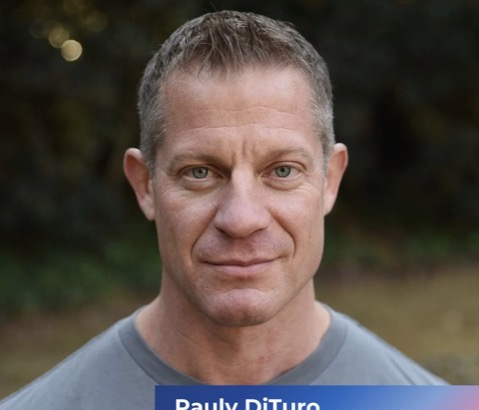
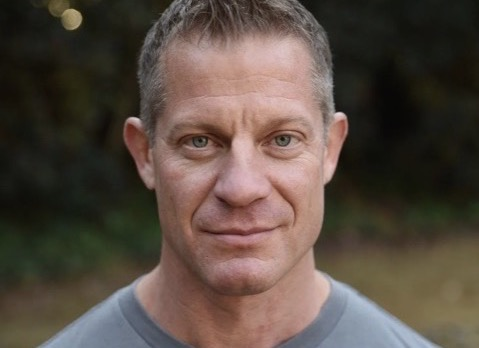
Profiles as clean plates + de-AI'd offer/how-it-works copy
Profiles: no more text-over-gradient tiles or blue outlines — every held seat
is a hairline-ringed rounded photo with the name in plain text below, matching
the provenance photos. Empty seats keep dashed scaffolding. Paul DiTuro:
baked-in name banner cropped off, link removed.

Copy (panel-judged): NETWORK 'This is where they meet.' answers the litany's
'They haven't met yet.'; HOW IT WORKS rows rewritten as connected human
sentences.

diff --git a/index.html b/index.html
@@ -130,27 +130,11 @@
   .rows .v{max-width:62ch}
   .rows .v b{font-weight:600}
 
-  .strip{display:grid;grid-template-columns:repeat(3,1fr);gap:16px}
-  .polaroid{
-    border:1px solid var(--line);background:#fff;padding:10px 10px 12px;
-    border-radius:6px;
-    transform:rotate(var(--tilt,0deg));
-    box-shadow:0 1px 2px rgba(22,24,29,.06),0 8px 20px rgba(22,24,29,.08);
-    transition:transform .3s ease,box-shadow .3s ease;
-  }
-  .strip .polaroid:nth-child(1){--tilt:-1deg}
-  .strip .polaroid:nth-child(2){--tilt:.7deg}
-  .strip .polaroid:nth-child(3){--tilt:-.5deg}
-  @media(hover:hover){
-    .strip .polaroid:hover{
-      transform:rotate(0deg) translateY(-4px);
-      box-shadow:0 2px 4px rgba(22,24,29,.07),0 16px 36px rgba(22,24,29,.11);
-    }
-  }
-  .polaroid img{display:block;width:100%;aspect-ratio:4/3;object-fit:cover;border-radius:2px}
+  .strip{display:grid;grid-template-columns:repeat(3,1fr);gap:18px}
+  .polaroid img{display:block;width:100%;aspect-ratio:4/3;object-fit:cover;border-radius:8px;border:1px solid var(--line)}
   .polaroid img,.cell .face,.cell .bio img{filter:saturate(.92)}
   .strip .polaroid:first-child img{object-position:88% 50%}
-  .polaroid figcaption{font-size:11.5px;color:var(--gray);margin-top:8px;line-height:1.45;letter-spacing:.03em}
+  .polaroid figcaption{font-size:11.5px;color:var(--gray);margin-top:9px;line-height:1.45;letter-spacing:.03em}
 
   .perm{font-family:var(--disp);font-weight:700;font-size:clamp(21px,3.2vw,28px);letter-spacing:-.01em;line-height:1.35;margin-top:30px;max-width:46ch}
 
@@ -161,35 +145,30 @@
   .roster{display:grid;grid-template-columns:repeat(5,1fr);gap:10px}
   .cell{
     border:1px dashed var(--line);
-    border-radius:6px;
+    border-radius:8px;
     min-height:82px;padding:10px 12px;
     display:flex;flex-direction:column;justify-content:space-between;
     background:rgba(251,251,247,.5);
     position:relative;
   }
   .cell .idx{font-family:var(--disp);font-weight:700;color:var(--blue);font-size:14px}
+  .cell .tag{display:flex;align-items:baseline;gap:8px}
   .cell .who{font-size:11.5px;color:var(--gray)}
   /* No transform/translate on .cell.held, ever — the .bio popover anchors to it and jitters. */
-  .cell.held{border-style:solid;border-color:var(--blue);min-height:118px;box-shadow:0 1px 2px rgba(22,24,29,.06),0 6px 16px rgba(22,24,29,.08)}
-  .cell .face{position:absolute;inset:0;width:100%;height:100%;object-fit:cover;object-position:center 25%;border-radius:5px}
-  .cell.held::after{content:"";position:absolute;inset:0;background:linear-gradient(rgba(22,24,29,.32),rgba(22,24,29,0) 38%,rgba(22,24,29,0) 52%,rgba(22,24,29,.6));pointer-events:none;border-radius:5px}
-  .cell.held .idx,.cell.held .who{position:relative;z-index:2}
-  .cell.held .idx{color:var(--paper)}
-  .cell.held .who{color:var(--paper)}
-  .cell.held .who a{color:var(--paper);border-bottom-color:var(--paper)}
-  .cell.held .who a:hover{background:var(--paper);color:var(--ink)}
+  .cell.held{border:none;padding:0;gap:7px;justify-content:flex-start;min-height:0;background:transparent}
+  .cell .face{display:block;width:100%;aspect-ratio:1/1;object-fit:cover;object-position:center 25%;border-radius:8px;border:1px solid var(--line)}
   .cell .bio{
     position:absolute;left:-1px;top:-1px;z-index:20;
     width:230px;background:#fff;border:1px solid var(--blue);
-    border-radius:6px;
-    box-shadow:0 2px 6px rgba(22,24,29,.10),0 18px 44px -12px rgba(22,24,29,.28);
+    border-radius:8px;
+    box-shadow:0 2px 8px rgba(22,24,29,.08),0 16px 40px -12px rgba(22,24,29,.18);
     padding:8px 8px 10px;font-size:11.5px;line-height:1.5;color:var(--ink);
     visibility:hidden;opacity:0;transform:scale(.96);transform-origin:top left;
     transition:opacity .15s ease,transform .15s ease,visibility .15s;
     pointer-events:none;
   }
   .cell:hover .bio,.cell:focus-within .bio{visibility:visible;opacity:1;transform:scale(1);pointer-events:auto}
-  .cell .bio img{display:block;width:100%;height:150px;object-fit:cover;object-position:center 25%;margin-bottom:8px;border-radius:2px}
+  .cell .bio img{display:block;width:100%;height:150px;object-fit:cover;object-position:center 25%;margin-bottom:8px;border-radius:4px}
   .cell .bio b{font-weight:600}
   .cell .who .mark{height:11px;width:auto;display:inline-block;vertical-align:middle;margin-left:6px;background:var(--paper);padding:1px 3px;box-sizing:content-box;border-radius:2px}
   .adv .cell .who{margin-top:auto}
@@ -203,10 +182,7 @@
     .rows .row{grid-template-columns:1fr;gap:4px}
     .roster{grid-template-columns:repeat(4,1fr)}
     table.offer td:first-child{width:120px}
-    .strip{grid-template-columns:1fr;gap:24px}
-    .strip .polaroid:nth-child(1){--tilt:-.7deg}
-    .strip .polaroid:nth-child(2){--tilt:.5deg}
-    .strip .polaroid:nth-child(3){--tilt:-.4deg}
+    .strip{grid-template-columns:1fr;gap:20px}
   }
   @media(max-width:440px){
     .roster{grid-template-columns:repeat(2,1fr)}
@@ -262,7 +238,7 @@
       </tr>
       <tr>
         <td>THE NETWORK</td>
-        <td><b>A community, for life.</b><br>Every fellow from every cohort, one community &mdash; incredible people like you, working on incredible things.</td>
+        <td><b>This is where they meet.</b><br>Every fellow from every cohort joins one permanent community. Whatever you're driving toward, now you're surrounded by people who understand it and help.</td>
       </tr>
     </table>
   </div>
@@ -272,11 +248,11 @@
   <div class="wrap">
     <p class="label">[ HOW IT WORKS ]</p>
     <div class="rows">
-      <div class="row"><div class="k">NO STRINGS</div><div class="v">We take nothing and expect nothing.</div></div>
-      <div class="row"><div class="k">WHY JOIN</div><div class="v">The money and the community &mdash; come for one or both.</div></div>
-      <div class="row"><div class="k">WHO CAN APPLY</div><div class="v">Anyone, whether operators, engineers, scientists, or anything else. Applications are always open, and we read every one.</div></div>
-      <div class="row"><div class="k">YOUR APPLICATION</div><div class="v">It never expires. When there's something new, send an update and we'll read it against your last one.</div></div>
-      <div class="row"><div class="k">PRIVATE</div><div class="v">Being announced or listed is optional. Quiet is fine.</div></div>
+      <div class="row"><div class="k">NO STRINGS</div><div class="v">We take nothing and expect nothing. There's no equity and no reporting, and you can spend the money on anything.</div></div>
+      <div class="row"><div class="k">WHY JOIN</div><div class="v">You can come for the money, the community, or both. All three are fine with us.</div></div>
+      <div class="row"><div class="k">WHO CAN APPLY</div><div class="v">Anyone can, whether you're an operator, an engineer, a scientist, or something else entirely. Applications are always open, and we read every one.</div></div>
+      <div class="row"><div class="k">YOUR APPLICATION</div><div class="v">It never expires. When something new happens, write to us again, and we'll read it against your last one.</div></div>
+      <div class="row"><div class="k">PRIVATE</div><div class="v">Being announced or listed is up to you. If you'd rather stay quiet, that's fine too.</div></div>
     </div>
   </div>
 </section>
@@ -288,7 +264,7 @@
     <p class="roster-note">Fellows are named on a rolling basis. Every cohort joins one community. Being listed is optional &mdash; some fellows will never appear here.</p>
     <div class="cohort"><span class="cy">2026</span><span class="ct">FOUNDING COHORT</span></div>
     <div class="roster">
-      <div class="cell held"><img class="face" src="images/ayush-noori.jpg" alt=""><span class="idx">v&#8321;</span><span class="who"><a href="https://www.ayushnoori.com/" target="_blank" rel="noopener">Ayush Noori</a></span>
+      <div class="cell held"><img class="face" src="images/ayush-noori.jpg" alt=""><span class="tag"><span class="idx">v&#8321;</span><span class="who"><a href="https://www.ayushnoori.com/" target="_blank" rel="noopener">Ayush Noori</a></span></span>
         <span class="bio"><img src="images/ayush-noori.jpg" alt="Ayush Noori"><a href="https://www.ayushnoori.com/" target="_blank" rel="noopener"><b>Ayush Noori</b></a><br>AI for neuroscience and medicine. Rhodes Scholar; DPhil at Oxford.</span></div>
       <div class="cell"><span class="idx">v&#8322;</span><span class="who">&mdash;</span></div>
       <div class="cell"><span class="idx">v&#8323;</span><span class="who">&mdash;</span></div>
@@ -322,8 +298,8 @@
         <span class="bio"><img src="images/xuanhe-zhao.jpg" alt="Xuanhe Zhao"><a href="https://meche.mit.edu/people/faculty/ZHAOX@MIT.EDU" target="_blank" rel="noopener"><b>Xuanhe Zhao</b></a><br>MIT professor of mechanical engineering. Makes hydrogels tougher than cartilage and tape that seals wet organs in seconds.</span></div>
       <div class="cell held"><img class="face" src="images/david-cahn.jpg" alt=""><span class="who"><a href="https://www.sequoiacap.com/people/david-cahn/" target="_blank" rel="noopener">David Cahn</a><img class="mark" src="images/sequoia-mark.svg" alt="Sequoia"></span>
         <span class="bio"><img src="images/david-cahn.jpg" alt="David Cahn"><a href="https://www.sequoiacap.com/people/david-cahn/" target="_blank" rel="noopener"><b>David Cahn</b></a><br>Ran venture at Coatue. Joined Sequoia as a partner at 27 and wrote "AI's $600B Question."</span></div>
-      <div class="cell held"><img class="face" src="images/paul-dituro.jpg" alt=""><span class="who"><a href="https://fpvventures.com/pauly-dituro/" target="_blank" rel="noopener">Paul DiTuro</a></span>
-        <span class="bio"><img src="images/paul-dituro.jpg" alt="Paul DiTuro"><a href="https://fpvventures.com/pauly-dituro/" target="_blank" rel="noopener"><b>Paul DiTuro</b></a><br>US special forces and particle physicist. Searched for the Higgs at Fermilab; founded the BrainStorm Institute at the University of South Carolina.</span></div>
+      <div class="cell held"><img class="face" src="images/paul-dituro.jpg" alt=""><span class="who">Paul DiTuro</span>
+        <span class="bio"><img src="images/paul-dituro.jpg" alt="Paul DiTuro"><b>Paul DiTuro</b><br>US special forces and particle physicist. Searched for the Higgs at Fermilab; founded the BrainStorm Institute at the University of South Carolina.</span></div>
       <div class="cell"><span class="idx">&hellip;</span><span class="who">More coming</span></div>
     </div>
     <p class="trust">Interested in advising? mark [at] orbit.engineering</p>
